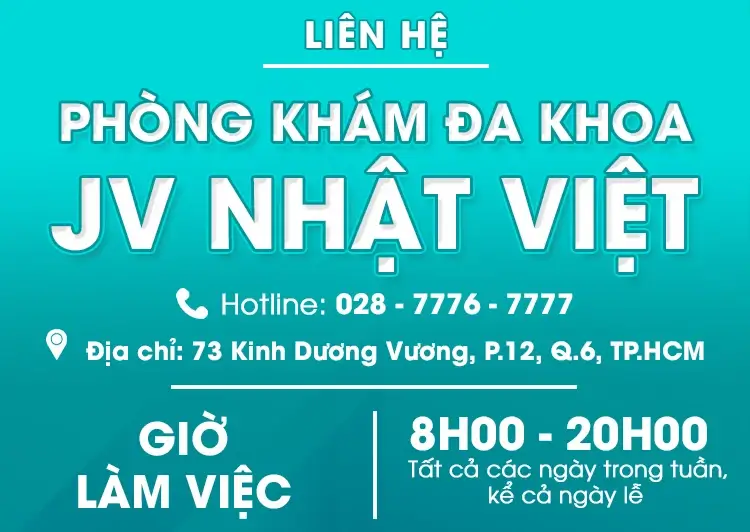
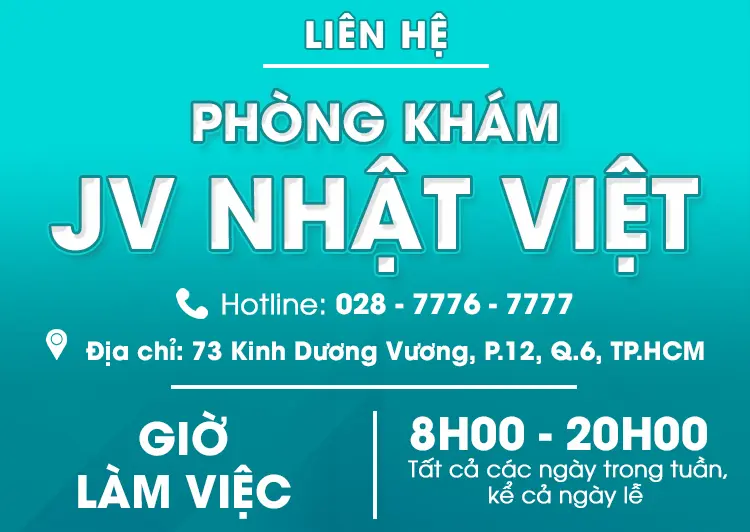
update

diff --git a/index.php b/index.php
@@ -16,28 +16,28 @@
                         <amp-img class="we__bring-item-logo" src="<?php echo $local ?>/images/icons/icon_nam_khoa2.webp" height="260px" width="125px" alt="..."></amp-img>
                         <div class="we__bring-item-body">
                             <h5>NAM KHOA</h5>
-                            <span>Chuyên khoa Nam khoa, Phòng khám Đa khoa Nhật Việt luôn được chú trọng phát triển, nhằm mang lại chất lượng và sự hài lòng nhất cho quý nam giới.</span>
+                            <span>Chuyên khoa Nam khoa, Phòng khám Nhật Việt luôn được chú trọng phát triển, nhằm mang lại chất lượng và sự hài lòng nhất cho quý nam giới.</span>
                         </div>
                     </div>
                     <div class="we__bring-item">
                         <amp-img class="we__bring-item-logo" src="<?php echo $local ?>/images/icons/icon_da_lieu2.webp" height="260px" width="125px" alt="..."></amp-img>
                         <div class="we__bring-item-body">
                             <h5>DA LIỄU</h5>
-                            <span>Chuyên khoa Da liễu Phòng khám Đa khoa Nhật Việt là đơn vị đảm nhận chẩn đoán và điều trị các bệnh lý thuộc chuyên ngành Da liễu.</span>
+                            <span>Chuyên khoa Da liễu Phòng khám Nhật Việt là đơn vị đảm nhận chẩn đoán và điều trị các bệnh lý thuộc chuyên ngành Da liễu.</span>
                         </div>
                     </div>
                     <div class="we__bring-item">
                         <amp-img class="we__bring-item-logo" src="<?php echo $local ?>/images/icons/icon_benh_xh2.webp" height="260px" width="125px" alt="..."></amp-img>
                         <div class="we__bring-item-body">
                             <h5>BỆNH XÃ HỘI</h5>
-                            <span>Đa khoa Nhật Việt là một trong những địa chỉ thăm khám, xét nghiệm và điều trị bệnh xã hội uy tín tại TPHCM được người dân thành phố và khu vực tin chọn.</span>
+                            <span>Phòng khám Nhật Việt là một trong những địa chỉ thăm khám, xét nghiệm và điều trị bệnh xã hội uy tín tại TPHCM được người dân thành phố và khu vực tin chọn.</span>
                         </div>
                     </div>
                     <div class="we__bring-item">
                         <amp-img class="we__bring-item-logo" src="<?php echo $local ?>/images/icons/icon_hm_tt2.webp" height="260px" width="125px" alt="..."></amp-img>
                         <div class="we__bring-item-body">
                             <h5>HẬU MÔN - TRỰC TRÀNG</h5>
-                            <span>Khoa Hậu môn – Trực tràng Phòng khám Đa khoa Nhật Việt chuyên cung cấp dịch vụ khám chữa toàn diện các bệnh lý hậu môn – trực tràng uy tín.</span>
+                            <span>Khoa Hậu môn – Trực tràng Phòng khám Nhật Việt chuyên cung cấp dịch vụ khám chữa toàn diện các bệnh lý hậu môn – trực tràng uy tín.</span>
                         </div>
                     </div>
                 </div>
@@ -51,7 +51,7 @@
                             CHÚNG TÔI MANG ĐẾN
                         </div>
                         <div class="we__bring-row-right-text">
-                            Đa Khoa Nhật Việt luôn nỗ lực để xây dựng một thương hiệu chăm sóc sức khỏe với hàm lượng tri thức, khoa học và công nghệ ở mức cao. Mỗi dịch vụ y tế đều hướng tới tính tiện ích, hiệu quả, có ý nghĩa với cuộc sống và sức khỏe con người.
+                            Phòng khám Nhật Việt luôn nỗ lực để xây dựng một thương hiệu chăm sóc sức khỏe với hàm lượng tri thức, khoa học và công nghệ ở mức cao. Mỗi dịch vụ y tế đều hướng tới tính tiện ích, hiệu quả, có ý nghĩa với cuộc sống và sức khỏe con người.
                         </div>
                         <button class="we__bring-row-right-button">
                             XEM TẤT CẢ CÁC DỊCH VỤ CỦA CHÚNG TÔI
@@ -318,7 +318,7 @@
                             </div>
                         </div>
                         <div class="feedback__container-row-card-bottom">
-                            “Mình bị viêm da cũng khá nặng, đã chữa trị nhiều nơi nhưng không khỏi. Mình biết đến Phòng khám Đa khoa Nhật Việt qua một người bạn. Khi mình đến khám, bác sĩ và nhân viên phòng khám hướng dẫn mình rất chi tiết trong từng hạng mục.”
+                            “Mình bị viêm da cũng khá nặng, đã chữa trị nhiều nơi nhưng không khỏi. Mình biết đến Phòng khám Nhật Việt qua một người bạn. Khi mình đến khám, bác sĩ và nhân viên phòng khám hướng dẫn mình rất chi tiết trong từng hạng mục.”
                         </div>
                     </div>
 
@@ -343,7 +343,7 @@
                             </div>
                         </div>
                         <div class="feedback__container-row-card-bottom">
-                        “Theo Hải thì chất lượng phòng khám là khỏi chê, đội ngũ nhân viên y, bác sĩ rất thân thiện và nhiệt tình. Thời gian trả kết quả cũng rất nhanh, cái chính là an toàn và bảo mật. Đây là điều mà Hải cảm thấy hài lòng nhất, xin cám ơn Đa khoa Nhật Việt!”
+                        “Theo Hải thì chất lượng phòng khám là khỏi chê, đội ngũ nhân viên y, bác sĩ rất thân thiện và nhiệt tình. Thời gian trả kết quả cũng rất nhanh, cái chính là an toàn và bảo mật. Đây là điều mà Hải cảm thấy hài lòng nhất, xin cám ơn Phòng khám Nhật Việt!”
                         </div>
                     </div>
 
@@ -367,7 +367,7 @@
                             </div>
                         </div>
                         <div class="feedback__container-row-card-bottom">
-                        “Công việc của Hiếu khá bận nên thời gian rảnh rất ít. Do đó Hiếu đã chọn thăm khám nam khoa tại Đa Khoa Nhật Việt qua Đặt hẹn Online.”
+                        “Công việc của Hiếu khá bận nên thời gian rảnh rất ít. Do đó Hiếu đã chọn thăm khám nam khoa tại Phòng khám Nhật Việt qua Đặt hẹn Online.”
                         </div>
                     </div>
                 </div>

diff --git a/layout/header_component.php b/layout/header_component.php
@@ -50,7 +50,7 @@
                 </li>
                 <li class="header__bottom-nav-ul-li header__bottom-border header__bottom-positon">
                     <a class="" href="<?php echo $local ?>">danh mục bệnh</a>
-                    <div class="header__menu">
+                    <!-- <div class="header__menu">
                         <div></div>
                         <nav>
                             <?php foreach ($getAllChiTietKhoaAndBenh as $value) : ?>
@@ -66,7 +66,7 @@
                                 </ul>
                             <?php endforeach; ?>
                         </nav>
-                    </div>
+                    </div> -->
                 </li>
                 <li class="header__bottom-nav-ul-li header__bottom-border">
                     <a class="" href="<?php echo $local ?>/tin-tuc-y-khoa.html">tin tức y khoa</a>
@@ -82,8 +82,8 @@
 <header id="header__mobile" class="header__mobile">
     <div class="header__mobile-top">
         <div class="header__mobile-top-left">
-            <amp-img onclick="showSidebar()" class="header__mobile-top-left-icon" src="<?php echo $local ?>/images/icons/menu_white.webp" height="25px" width="25px" alt="..."></amp-img>
-            <amp-img onclick="hidenSidebar()" class="header__mobile-top-left-icon-close" src="<?php echo $local ?>/images/icons/icon_close.webp" height="25px" width="25px" alt="..."></amp-img>
+            <img loading="lazy" onclick="showSidebar()" class="header__mobile-top-left-icon" src="<?php echo $local ?>/images/icons/menu_white.webp" height="25px" width="25px" alt="..."></img>
+            <img loading="lazy" onclick="hidenSidebar()" class="header__mobile-top-left-icon-close" src="<?php echo $local ?>/images/icons/icon_close.webp" height="25px" width="25px" alt="..."></img>
         </div>
         <div class="header__mobile-top-center">
             <input id="sdt_mobile" type="number" placeholder="Nhập số điện thoại">
@@ -118,7 +118,7 @@
                     <span>danh mục bệnh</span>
                     <img src="<?php echo $local ?>/images/icons/icon_down.png" alt="">
                 </div>
-                <ul class="sidebar_mobile_li-option">
+                <!-- <ul class="sidebar_mobile_li-option">
                     <?php foreach ($getMenuMobile as $value) : ?>
                         <li class="sidebar_mobile_li-option-li">
                             <div data-option="<?php echo $value['id'] ?>" class="sidebar_mobile_li-option-li-div">
@@ -134,7 +134,7 @@
                             </ul>
                         </li>
                     <?php endforeach; ?>
-                </ul>
+                </ul> -->
             </li>
 
             <li>

diff --git a/inc/header.php b/inc/header.php
@@ -30,16 +30,16 @@ header("Pragma: no-cache");
 header("Expires: Sat, 26 Jul 1997 05:00:00 GMT");
 header("Cache-Control: max-age=2592000");
 
-// $local = 'http://localhost/_nhatvietnew/phongkhamnhatviet.vn/';
-$local ='https://phongkhamnhatviet.vn'
+$local = 'http://localhost/_nhatvietnew/phongkhamnhatviet.vn/';
+// $local ='https://phongkhamnhatviet.vn'
 ?>
 <!DOCTYPE html>
 <html lang="en">
 <head>
 <meta charset="UTF-8">
     <meta name="viewport" content="width=device-width, initial-scale=1.0">
-    <meta name="description" content="Phòng khám đa khoa chuyên điều trị bệnh nam khoa, bệnh xã hội, da liễu, hậu môn - trực tràng uy tính tại thành phố Hồ Chí Minh">
-    <title>Phòng khám đa khoa</title>
+    <meta name="description" content="Phòng khám Nhật Việt chuyên điều trị bệnh nam khoa, bệnh xã hội, da liễu, hậu môn - trực tràng uy tính tại thành phố Hồ Chí Minh">
+    <title>Phòng khám Nhật Việt</title>
     <link rel="icon" href="<?php echo $local ?>/images/icons/icon_logo.png" type="image/x-icon">
     <link rel="preload" href="<?php echo $local ?>/css/index.min.css" as="style" onload='this.onload=null,this.rel="stylesheet"'>
     <link rel="preload" href="<?php echo $local ?>/css/toastr.min.css" as="style" onload='this.onload=null,this.rel="stylesheet"'>

diff --git a/admin/inc/header.php b/admin/inc/header.php
@@ -9,8 +9,8 @@ if (isset($_GET['action']) && $_GET['action'] == 'logout') {
     Session::destroy();
 }
 
-// $local = 'http://localhost/newphongkhamnhatviet.vn';
-$local = 'https://phongkhamnhatviet.vn';
+$local = 'http://localhost/newphongkhamnhatviet.vn';
+// $local = 'https://phongkhamnhatviet.vn';
 ?>
 
 <?php
@@ -95,7 +95,7 @@ header("Cache-Control: max-age=2592000");
         <aside id="sidebar">
             <div class="d-flex mt-3" style="margin-left: 24px;">
                 <div class="sidebar-logo">
-                    <a href="<?php echo $local ?>/admin">PK Đa Khoa</a>
+                    <a href="<?php echo $local ?>/admin">Phòng khám Nhật Việt</a>
                 </div>
             </div>
             <ul class="sidebar-nav">
